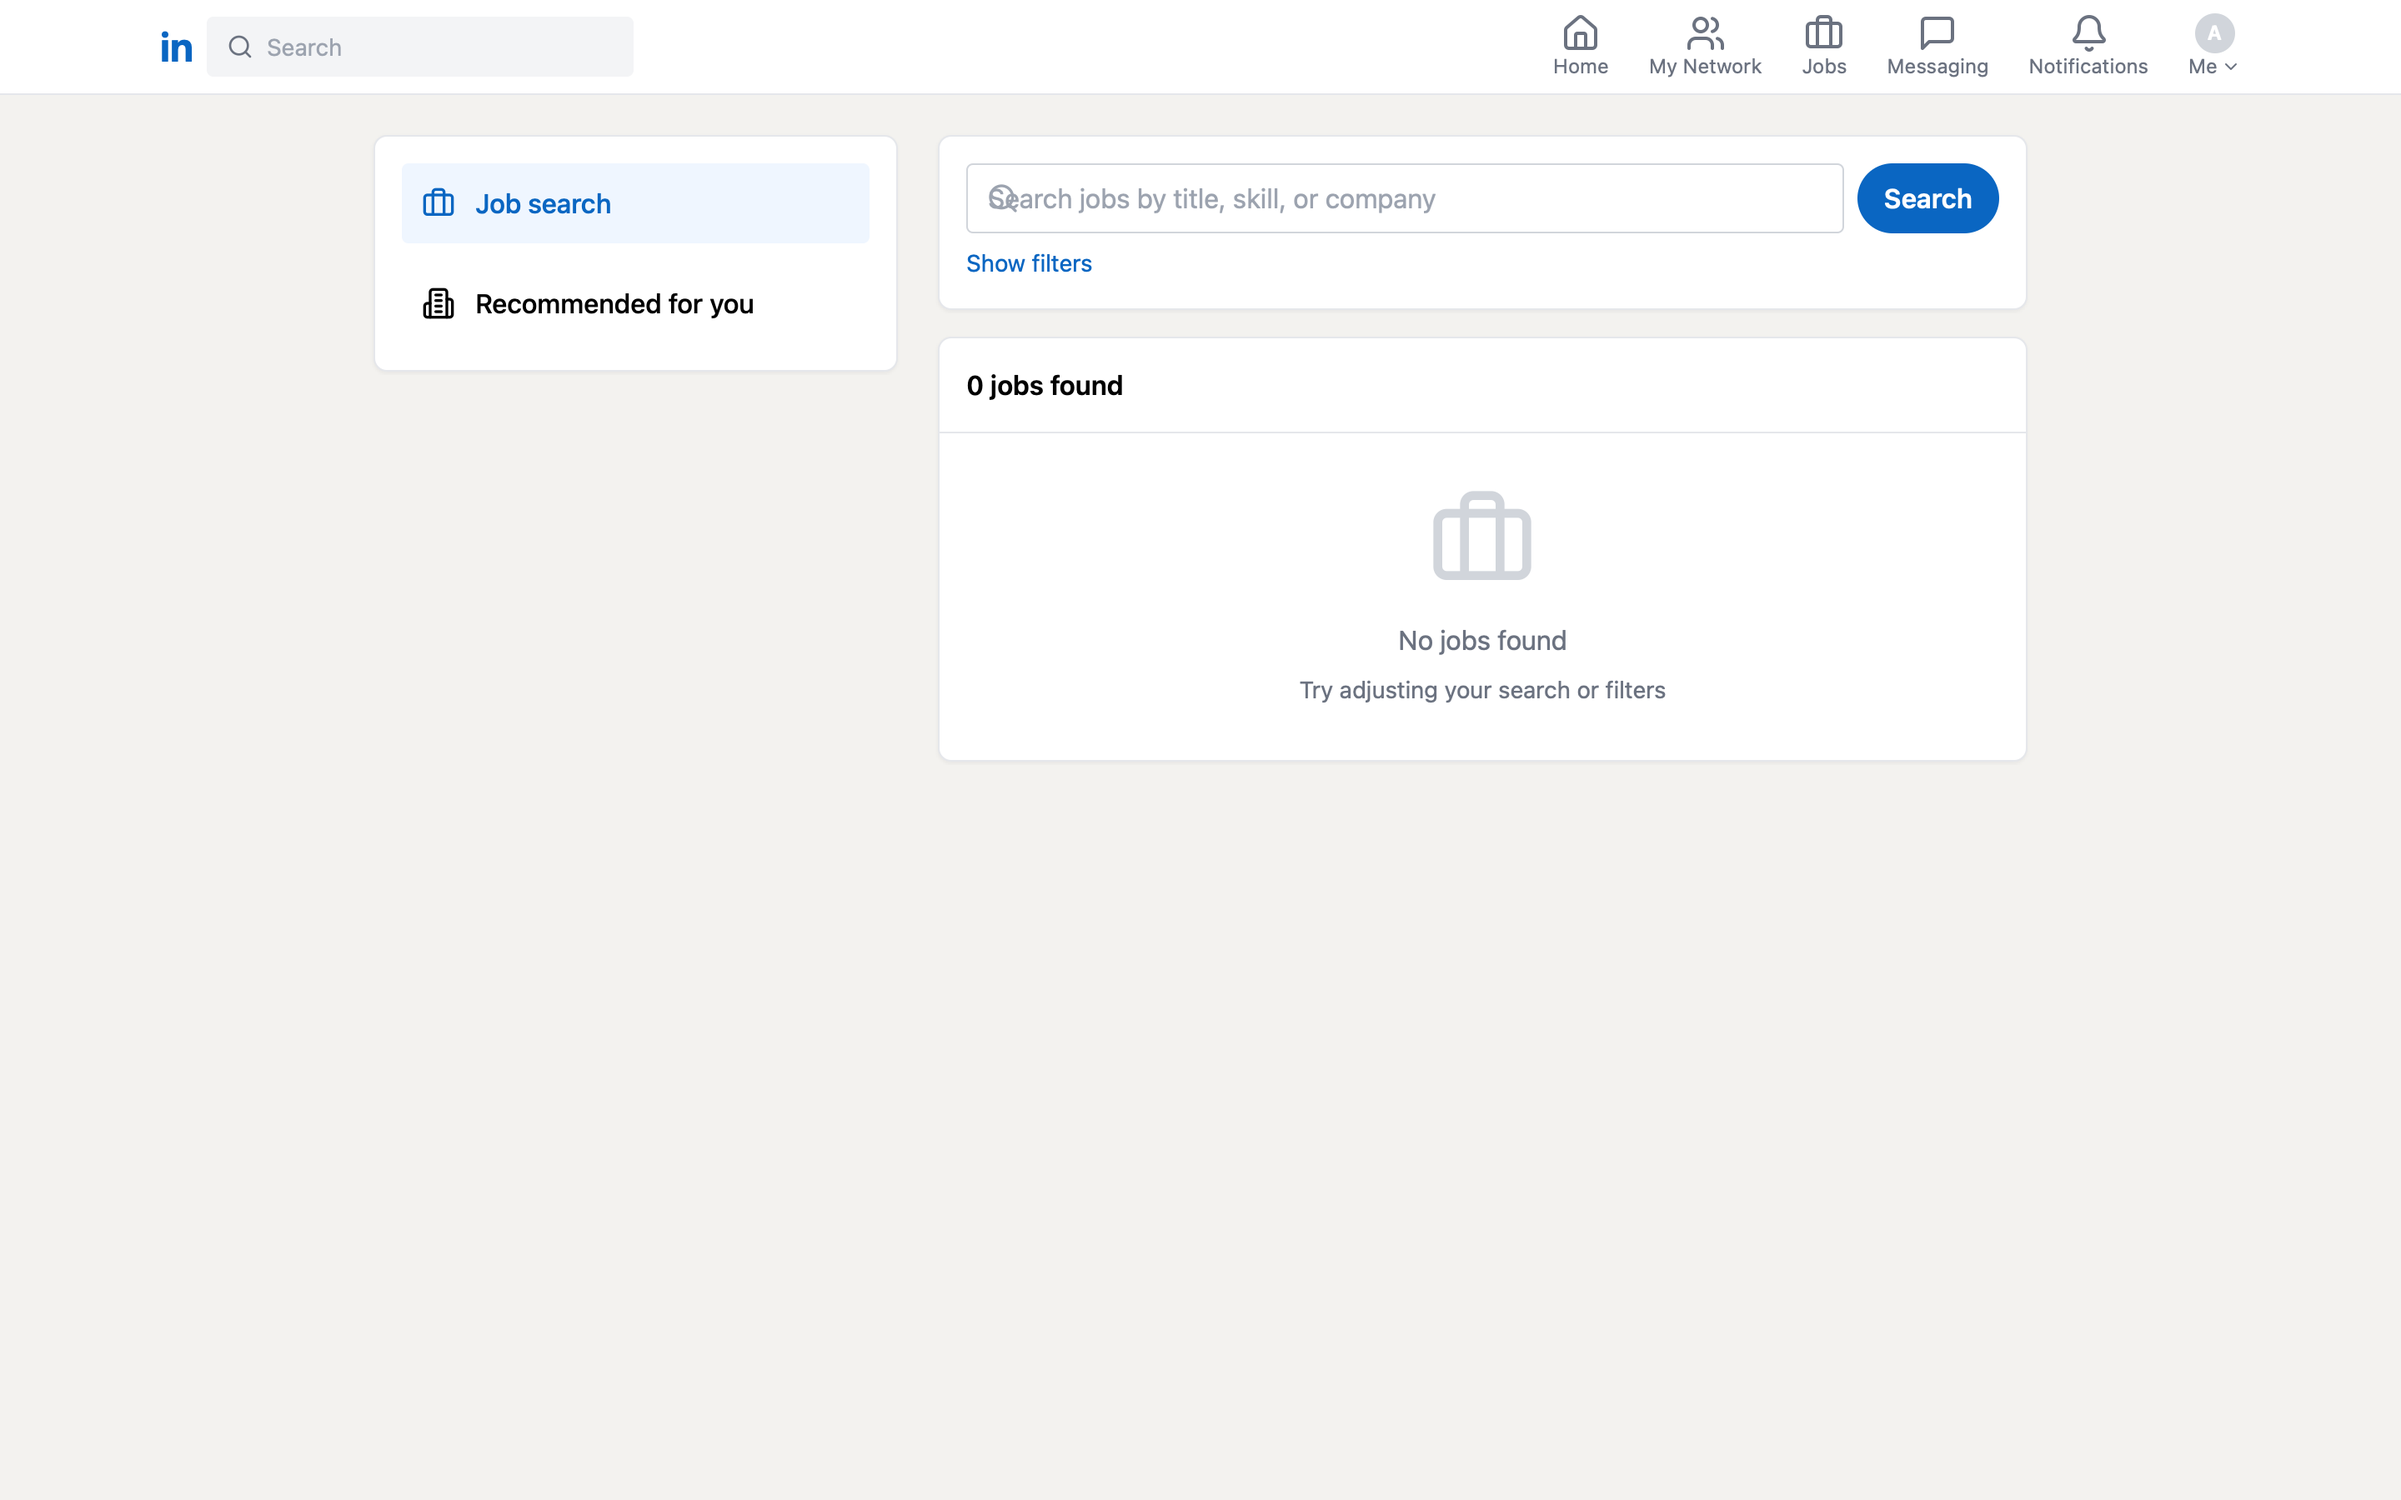
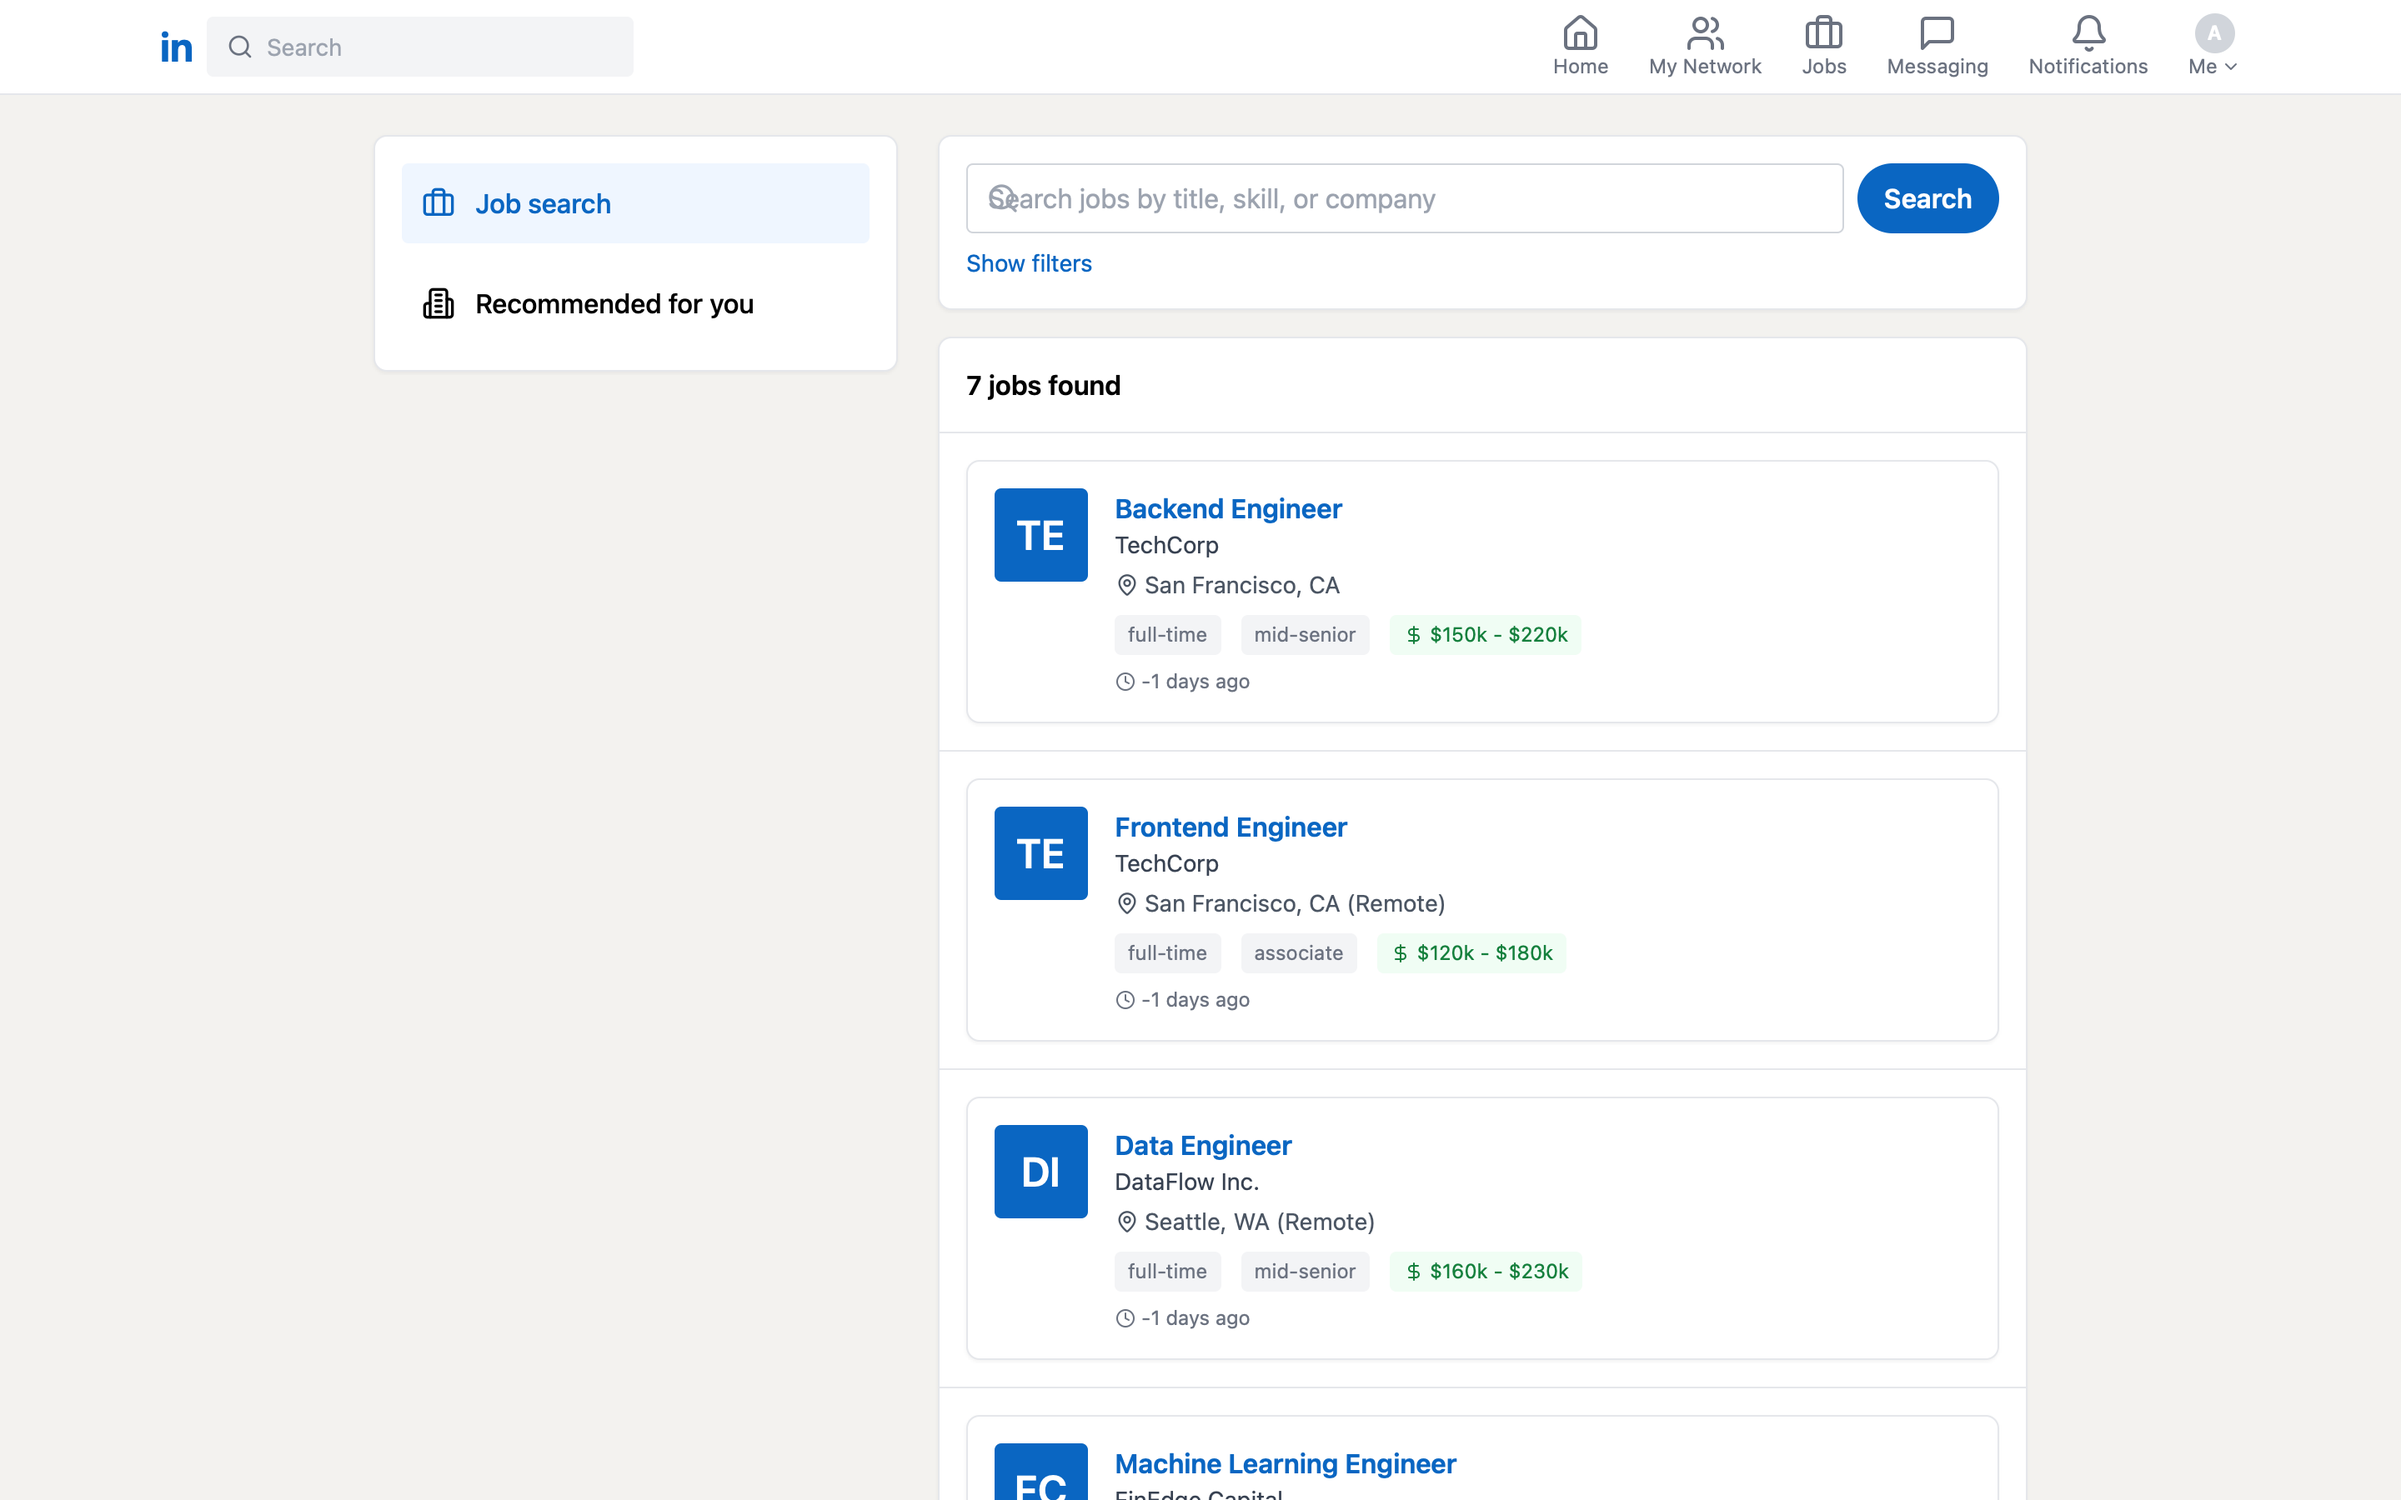
more fixes

diff --git a/linkedin/backend/src/services/jobService.ts b/linkedin/backend/src/services/jobService.ts
@@ -528,7 +528,12 @@ export async function getRecommendedJobs(userId: number, limit = 10): Promise<Jo
 
   // Get jobs that match user's skills
   const jobs = await query<Job & { match_score: number }>(
-    `SELECT DISTINCT j.*,
+    // No SELECT DISTINCT here: Postgres has no equality operator for `json`, so
+    // DISTINCT over a row containing json_build_object(...) fails outright with
+    // "could not identify an equality operator for type json". De-duplicate with
+    // EXISTS on job_skills instead of a LEFT JOIN that multiplies rows — that
+    // removes the need for DISTINCT altogether (and is cheaper).
+    `SELECT j.*,
             json_build_object(
               'id', c.id,
               'name', c.name,
@@ -541,10 +546,15 @@ export async function getRecommendedJobs(userId: number, limit = 10): Promise<Jo
             ) * 10 as match_score
      FROM jobs j
      JOIN companies c ON j.company_id = c.id
-     LEFT JOIN job_skills js ON j.id = js.job_id
      WHERE j.status = 'active'
        AND NOT EXISTS (SELECT 1 FROM job_applications WHERE job_id = j.id AND user_id = $2)
-       AND (js.skill_id = ANY($1::int[]) OR array_length($1::int[], 1) IS NULL)
+       AND (
+         array_length($1::int[], 1) IS NULL
+         OR EXISTS (
+           SELECT 1 FROM job_skills js
+           WHERE js.job_id = j.id AND js.skill_id = ANY($1::int[])
+         )
+       )
      ORDER BY match_score DESC, j.created_at DESC
      LIMIT $3`,
     [skillIds, userId, limit]
